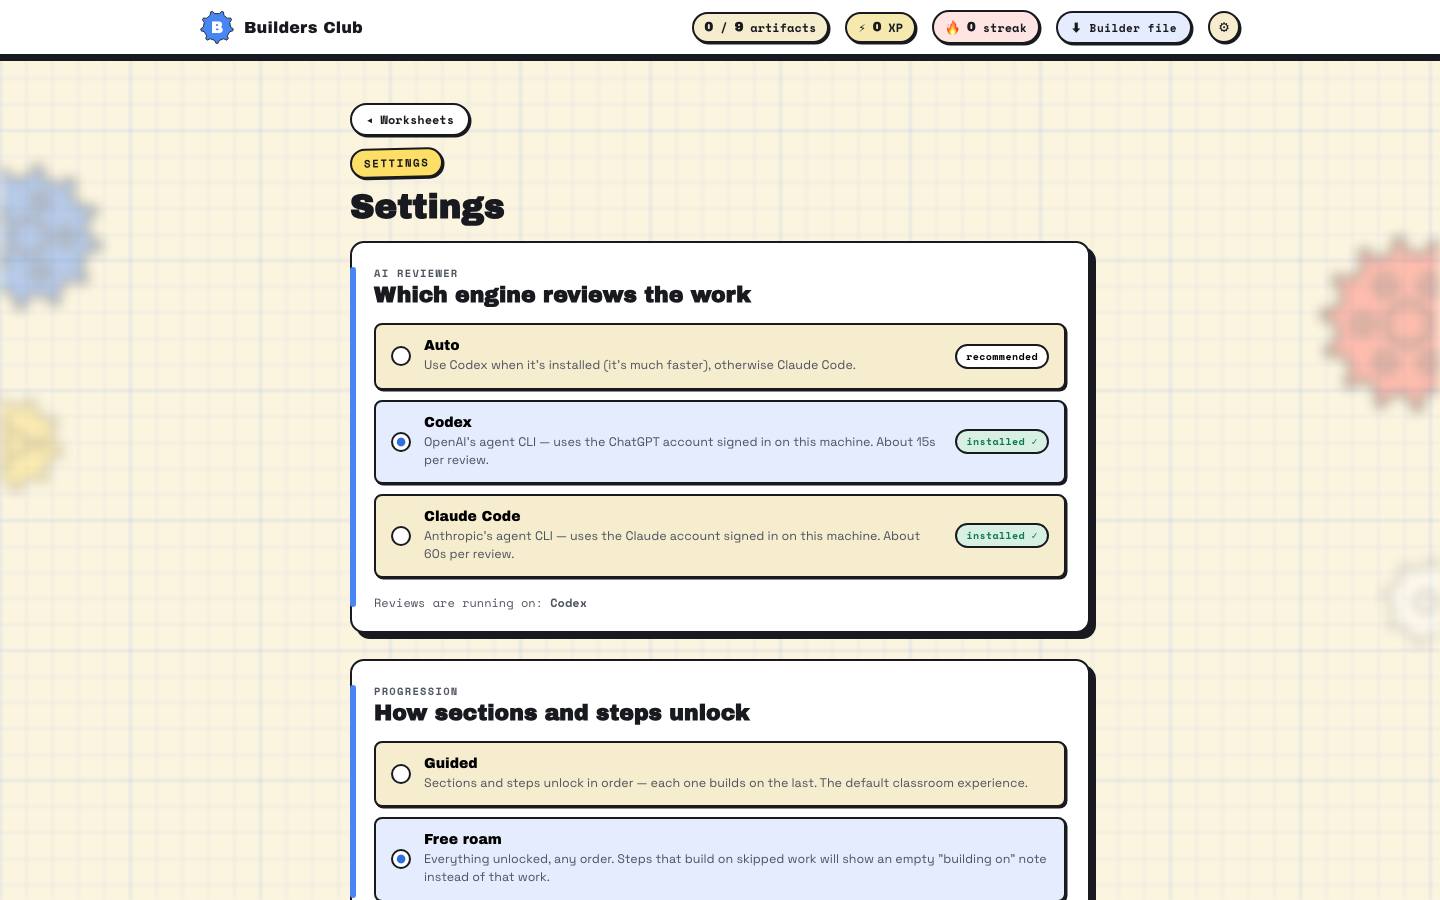
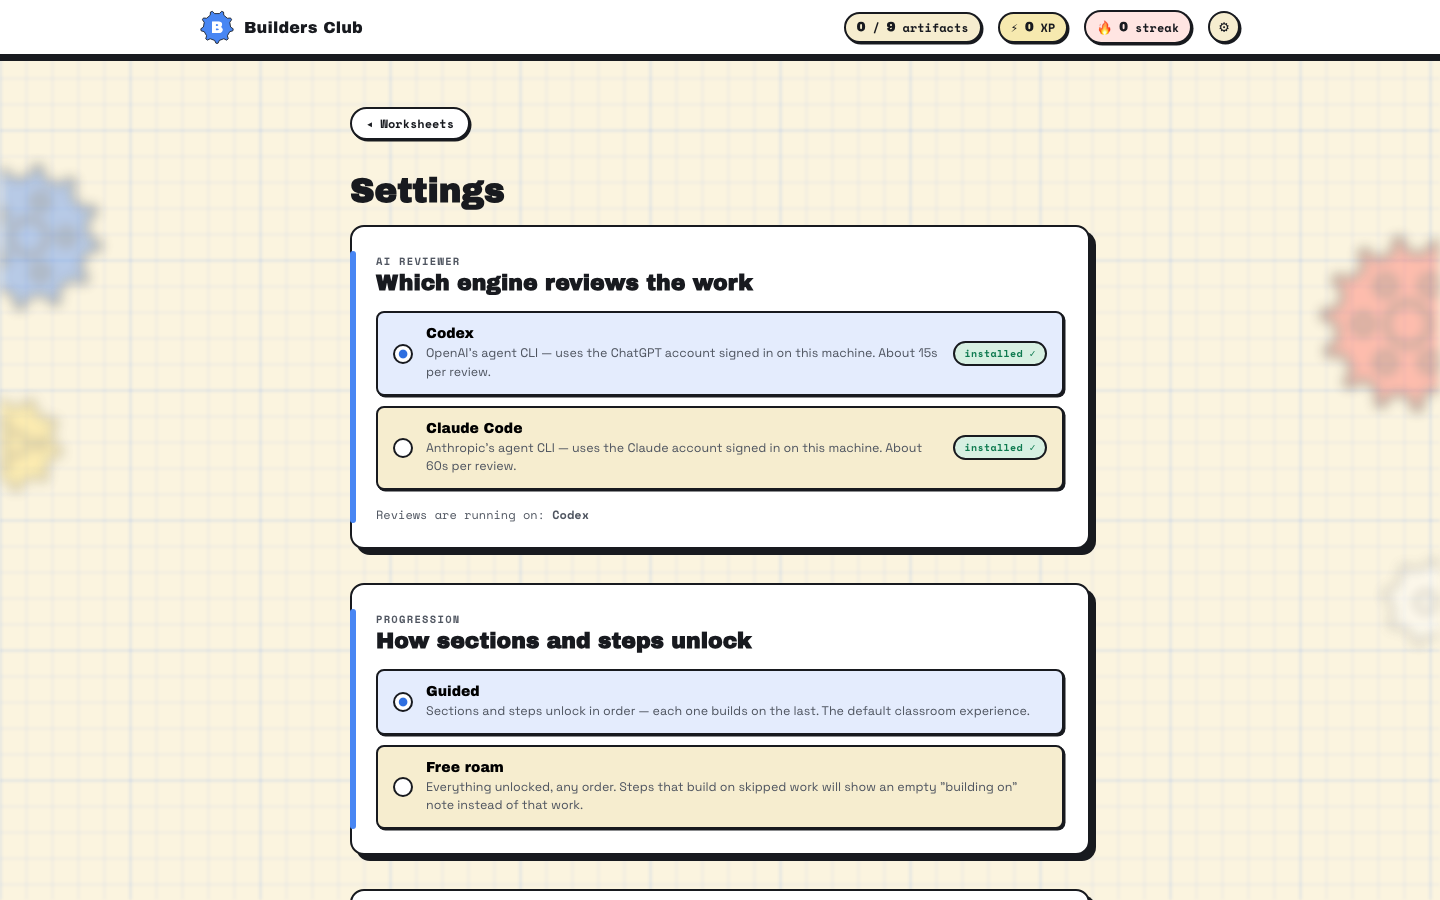
Drop the Auto engine option — pick Codex or Claude Code directly

Changed region(s): [[0.2188, 0.0933, 0.7812, 1.0], [0.4688, 0.0, 0.8438, 0.0622]]

diff --git a/public/app.js b/public/app.js
@@ -513,10 +513,11 @@ function settingsCardHTML(s) {
     ? `<span class="chip ok">installed ✓</span>`
     : `<span class="chip warn">not installed</span>`;
   const opts = [
-    { v: 'auto', title: 'Auto', desc: 'Use Codex when it’s installed (it’s much faster), otherwise Claude Code.', chip: '<span class="chip">recommended</span>' },
     { v: 'codex', title: 'Codex', desc: 'OpenAI’s agent CLI — uses the ChatGPT account signed in on this machine. About 15s per review.', chip: status(s.engines.codex) },
     { v: 'claude', title: 'Claude Code', desc: 'Anthropic’s agent CLI — uses the Claude account signed in on this machine. About 60s per review.', chip: status(s.engines.claude) },
   ];
+  // Machines that saved the old 'auto' setting show whichever engine auto resolved to.
+  const sel = s.reviewBackend === 'auto' ? s.active : s.reviewBackend;
   const activeName = s.active === 'codex' ? 'Codex' : 'Claude Code';
   return `
     <div class="sec-headtext">
@@ -525,8 +526,8 @@ function settingsCardHTML(s) {
     </div>
     <div class="opt-list">
       ${opts.map(o => `
-      <button class="opt ${s.reviewBackend === o.v ? 'sel' : ''}" data-backend="${o.v}">
-        <span class="opt-radio">${s.reviewBackend === o.v ? '●' : ''}</span>
+      <button class="opt ${sel === o.v ? 'sel' : ''}" data-backend="${o.v}">
+        <span class="opt-radio">${sel === o.v ? '●' : ''}</span>
         <span class="opt-main">
           <span class="opt-title">${o.title}</span>
           <span class="opt-desc">${o.desc}</span>

diff --git a/README.md b/README.md
@@ -135,9 +135,9 @@ Click the **⚙ gear** in the top-right of the app. The Settings page shows whic
 
 ![Settings page — choosing between Codex and Claude Code](docs/screenshots/settings.png)
 
-- **Auto** (default) — uses Codex when installed (it's much faster), otherwise Claude Code.
 - **Codex** — about 15s per review.
 - **Claude Code** — about 60s per review.
+- Until you pick one, it uses Codex when installed (it's much faster), otherwise Claude Code.
 
 Settings also controls **progression**: *Guided* (sections unlock in order — the default classroom experience) vs *Free roam* (everything unlocked, any order).
 
